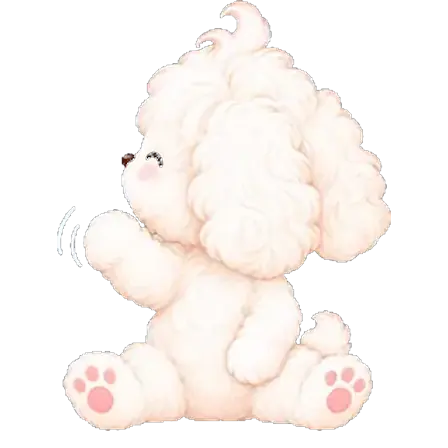
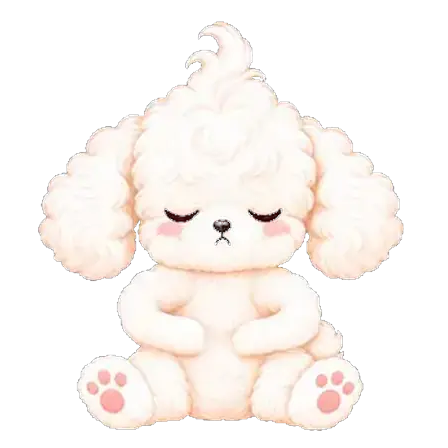
따끈따끈: '흥!'(wave) 새 버전 — 팔짱+뾰로통 삐짐 재작업 + 캐시버스터 ?v=2
우댕 피드백(손흔들기=웃는 인사로 보임) 반영해 사이담이 재작업: 앞발 흔들기→가슴 팔짱,
웃는 눈→처진 뾰로통 눈, 턱 들고 홱 돌기. 같은 파일명 덮어씀이라 ?v=2로 캐시 무효화.

diff --git a/src/components/ChatPanel.tsx b/src/components/ChatPanel.tsx
@@ -134,7 +134,7 @@ const ANIM_STICKERS: { word: string; image: string; still: string }[] = [
   { word: '보고싶어',   image: '/emo/sai-anim/missyou.webp', still: '/emo/sai-anim/missyou-still.png' },
   { word: '고마워',     image: '/emo/sai-anim/thanks.webp',  still: '/emo/sai-anim/thanks-still.png' },
   { word: '삐짐',       image: '/emo/sai-anim/sulk.webp',    still: '/emo/sai-anim/sulk-still.png' },
-  { word: '흥!',        image: '/emo/sai-anim/wave.webp',    still: '/emo/sai-anim/wave-still.png' },
+  { word: '흥!',        image: '/emo/sai-anim/wave.webp?v=2',    still: '/emo/sai-anim/wave-still.png?v=2' },
   { word: '미안해',     image: '/emo/sai-anim/sorry.webp',   still: '/emo/sai-anim/sorry-still.png' },
   { word: '잘자',       image: '/emo/sai-anim/night.webp',   still: '/emo/sai-anim/night-still.png' },
   { word: '씻고 올게',  image: '/emo/sai-anim/bath.webp?v=2',    still: '/emo/sai-anim/bath-still.png?v=2' },
